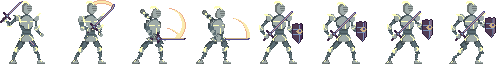
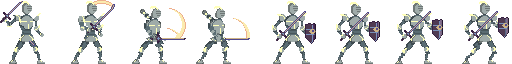
nitpicking

diff --git a/man.js b/man.js
@@ -3,13 +3,13 @@ class man{
         this.game = game;
         this.y = y;
         this.x = x;
-        this.animator = new Animator(ASSET_MANAGER.getAsset("./knight.png"), 0, 0, 62, 64, 8, 0.1,0,false,true);
+        this.animator = new Animator(ASSET_MANAGER.getAsset("./knight.png"), 0, 0, 64, 64, 8, 0.3,0,false,true);
         //spritesheet, xStart, yStart, width, height, frameCount, frameDuration, framePadding, reverse, loop
     };
     update(){
 
     };
     draw(ctx){
-        this.animator.drawFrame(this.game.clockTick,ctx,this.x, this.y,1);
+        this.animator.drawFrame(this.game.clockTick,ctx,this.x, this.y,5);
     };
 }
